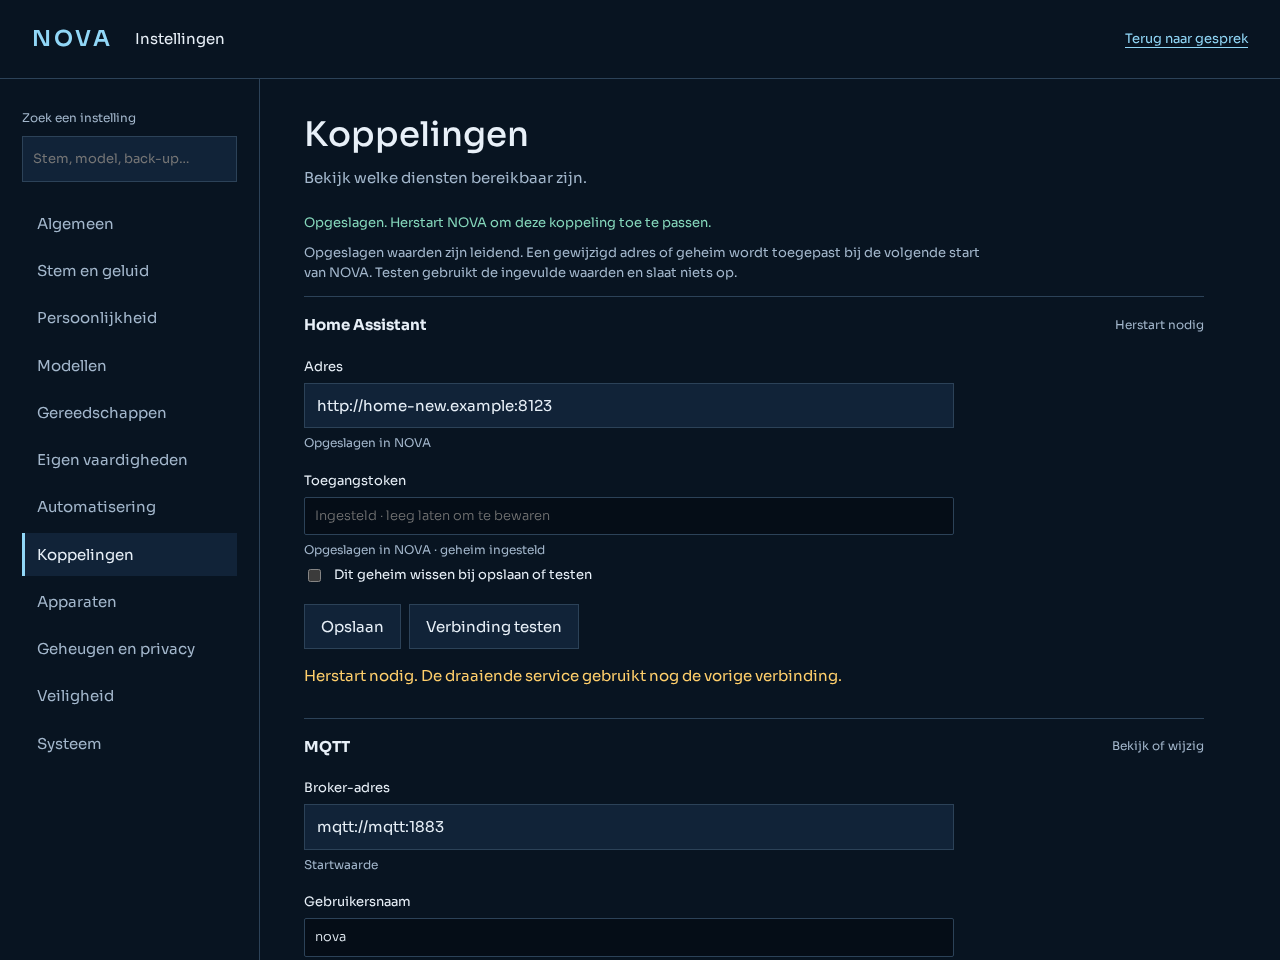
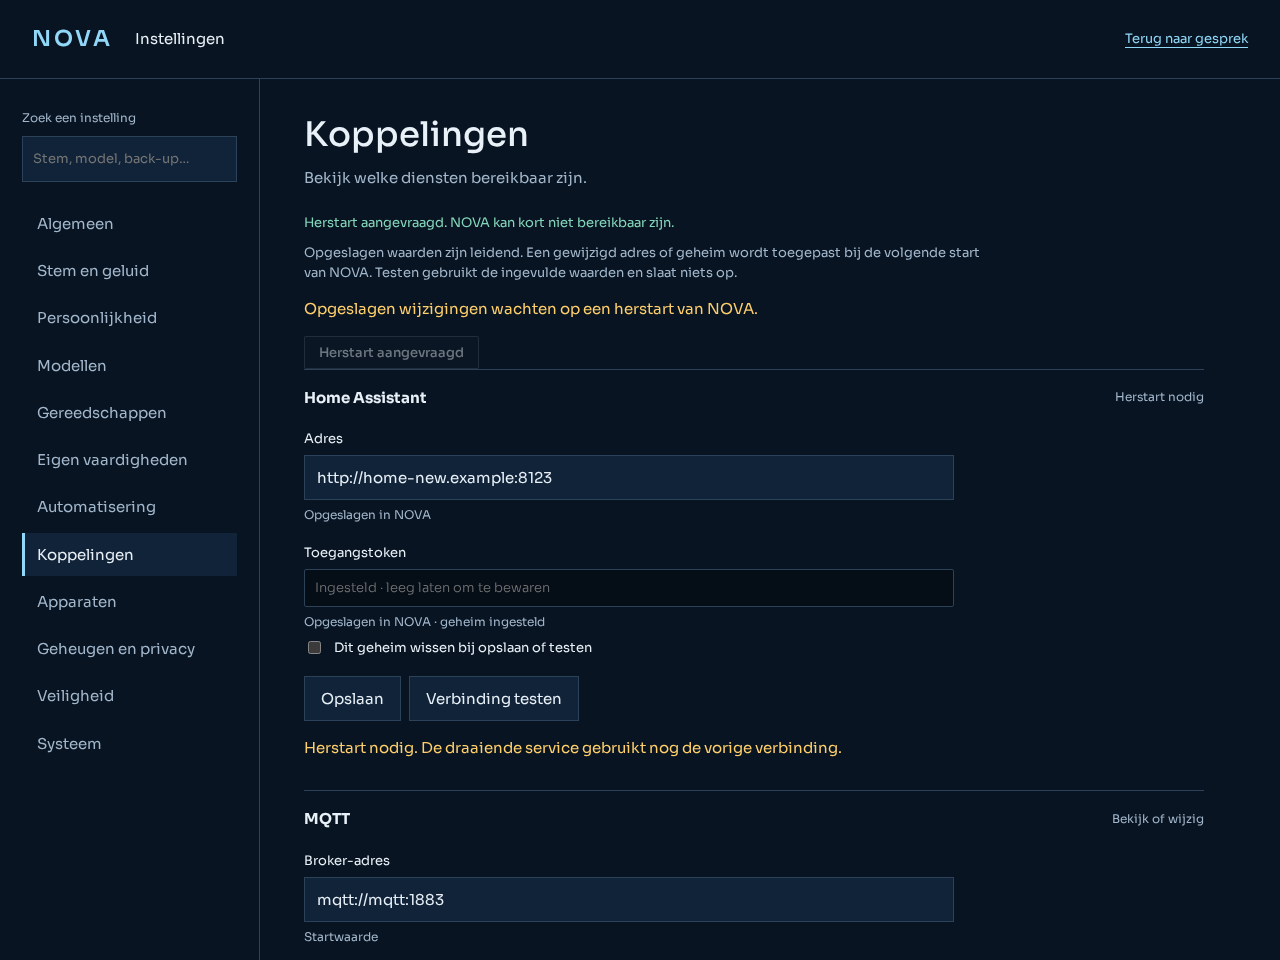
feat(settings): add controlled service restart

diff --git a/apps/web/src/components/settings/ConnectionsSection.svelte b/apps/web/src/components/settings/ConnectionsSection.svelte
@@ -3,6 +3,7 @@
   import type {
     MqttOverview,
     QdrantOverview,
+    ServiceRestartStatus,
     ServiceConnection,
     ServiceConnectionTest,
   } from "@nova/contracts";
@@ -12,8 +13,11 @@
     getQdrantOverview,
     saveServiceConnection,
     testServiceConnection,
+    getServiceRestartStatus,
+    requestServiceRestart,
   } from "#lib/api/settings.ts";
   import { fail, say } from "./state.svelte.ts";
+  import Button from "#components/ui/Button.svelte";
   let { ids }: { ids?: string[] } = $props();
   let services = $state<ServiceConnection[]>([]);
   let drafts = $state<Record<string, Record<string, string | boolean>>>({});
@@ -25,6 +29,7 @@
   let mqttError = $state("");
   let qdrantOverview = $state<QdrantOverview | null>(null);
   let qdrantError = $state("");
+  let restartStatus = $state<ServiceRestartStatus | null>(null);
   const shown = $derived(
     services.filter((item) => !ids || ids.includes(item.id)),
   );
@@ -39,7 +44,12 @@
   }
   async function load() {
     try {
-      services = (await getServiceConnections()).services;
+      const [connections, restart] = await Promise.all([
+        getServiceConnections(),
+        getServiceRestartStatus(),
+      ]);
+      services = connections.services;
+      restartStatus = restart;
       services.forEach(reset);
       error = "";
     } catch (e) {
@@ -47,6 +57,30 @@
         e instanceof Error
           ? e.message
           : "De koppelingen zijn niet beschikbaar.";
+    }
+  }
+  async function restart() {
+    if (
+      !window.confirm(
+        "NOVA is kort niet bereikbaar. Herstart nu om de opgeslagen koppelingen toe te passen?",
+      )
+    )
+      return;
+    busy = "restart";
+    try {
+      const result = await requestServiceRestart();
+      if (!result.ok)
+        throw new Error(result.error ?? "Herstart kon niet worden ingepland.");
+      restartStatus = {
+        available: true,
+        pendingChanges: true,
+        restartPending: true,
+      };
+      say("Herstart aangevraagd. NOVA kan kort niet bereikbaar zijn.", "ok");
+    } catch (e) {
+      fail(e);
+    } finally {
+      busy = null;
     }
   }
   onMount(() => {
@@ -85,6 +119,7 @@
           cleared(service.id),
         );
         services = result.services;
+        restartStatus = await getServiceRestartStatus();
         const saved = services.find((item) => item.id === service.id)!;
         reset(saved);
         delete tests[service.id];
@@ -136,6 +171,18 @@
   </p>
   {#if error}<p role="status">{error}</p>
     <button type="button" onclick={load}>Opnieuw proberen</button>{/if}
+  {#if restartStatus?.available && shown.some((service) => service.restartRequired)}
+    <div class="connection-pending" role="status">
+      <p>Opgeslagen wijzigingen wachten op een herstart van NOVA.</p>
+      <Button
+        disabled={busy !== null || restartStatus.restartPending}
+        onclick={restart}
+        >{restartStatus.restartPending
+          ? "Herstart aangevraagd"
+          : "Herstart NOVA"}</Button
+      >
+    </div>
+  {/if}
   {#each shown as service (service.id)}
     <details class="connection-editor">
       <summary

diff --git a/apps/api/src/settings/services/service-restart.service.ts b/apps/api/src/settings/services/service-restart.service.ts
@@ -1,0 +1,72 @@
+import { Injectable } from "@nestjs/common";
+import type {
+  ServiceRestartResult,
+  ServiceRestartStatus,
+} from "@nova/contracts";
+import { AuditService } from "../../core/audit/audit.service.js";
+import { NovaConfig } from "../../core/config/nova-config.js";
+import { ServiceConnectionsStore } from "./service-connections.store.js";
+
+/** Graceful process restart, enabled only when a supervisor will bring NOVA back. */
+@Injectable()
+export class ServiceRestart {
+  private scheduled = false;
+  /** Replaceable in tests. The production deploy uses Docker's unless-stopped policy. */
+  scheduleRestart: () => void = () => {
+    setTimeout(() => process.kill(process.pid, "SIGTERM"), 500);
+  };
+
+  constructor(
+    private readonly config: NovaConfig,
+    private readonly audit: AuditService,
+    private readonly connections: ServiceConnectionsStore,
+  ) {}
+
+  status(): ServiceRestartStatus {
+    const pendingChanges = this.connections
+      .list()
+      .some((service) => service.restartRequired);
+    return {
+      available: this.config.restartEnabled,
+      pendingChanges,
+      restartPending: this.scheduled,
+      ...(!this.config.restartEnabled
+        ? {
+            reason:
+              "Gecontroleerd herstarten is voor deze installatie niet ingeschakeld.",
+          }
+        : !pendingChanges
+          ? {
+              reason: "Er zijn geen wijzigingen die een herstart nodig hebben.",
+            }
+          : {}),
+    };
+  }
+
+  request(): ServiceRestartResult {
+    const status = this.status();
+    if (!status.available || !status.pendingChanges)
+      return { ok: false, error: status.reason };
+    if (this.scheduled)
+      return { ok: false, error: "De herstart is al aangevraagd." };
+    try {
+      this.audit.record({
+        sessionId: "settings",
+        tool: "settings_service_restart",
+        risk: "CONFIRM",
+        confirmation: "admin_ui",
+        arguments: { pendingChanges: true },
+        phase: "before_execute",
+      });
+      this.scheduled = true;
+      this.scheduleRestart();
+      return { ok: true, scheduled: true };
+    } catch {
+      this.scheduled = false;
+      return {
+        ok: false,
+        error: "Herstart kon niet worden ingepland. Probeer het later opnieuw.",
+      };
+    }
+  }
+}

diff --git a/apps/api/test/settings/service-restart.test.ts b/apps/api/test/settings/service-restart.test.ts
@@ -1,0 +1,50 @@
+import { describe, expect, it, vi } from "vitest";
+import type { AuditService } from "../../src/core/audit/audit.service.js";
+import type { NovaConfig } from "../../src/core/config/nova-config.js";
+import { ServiceRestart } from "../../src/settings/services/service-restart.service.js";
+
+function fixture({ enabled = true, pending = true } = {}) {
+  const record = vi.fn();
+  const scheduleRestart = vi.fn();
+  const service = new ServiceRestart(
+    { restartEnabled: enabled } as NovaConfig,
+    { record } as unknown as AuditService,
+    {
+      list: () => [{ restartRequired: pending }],
+    } as never,
+  );
+  service.scheduleRestart = scheduleRestart;
+  return { service, record, scheduleRestart };
+}
+
+describe("controlled service restart", () => {
+  it("is unavailable unless the process supervisor is explicitly enabled", () => {
+    const { service, scheduleRestart } = fixture({ enabled: false });
+    expect(service.status()).toMatchObject({
+      available: false,
+      pendingChanges: true,
+      restartPending: false,
+    });
+    expect(service.request()).toMatchObject({ ok: false });
+    expect(scheduleRestart).not.toHaveBeenCalled();
+  });
+
+  it("requires pending changes and schedules one audited graceful restart", () => {
+    const noChanges = fixture({ pending: false });
+    expect(noChanges.service.request()).toMatchObject({ ok: false });
+    expect(noChanges.scheduleRestart).not.toHaveBeenCalled();
+
+    const f = fixture();
+    expect(f.service.request()).toEqual({ ok: true, scheduled: true });
+    expect(f.service.status().restartPending).toBe(true);
+    expect(f.service.request()).toMatchObject({ ok: false });
+    expect(f.scheduleRestart).toHaveBeenCalledTimes(1);
+    expect(f.record).toHaveBeenCalledWith(
+      expect.objectContaining({
+        tool: "settings_service_restart",
+        phase: "before_execute",
+        arguments: { pendingChanges: true },
+      }),
+    );
+  });
+});

diff --git a/apps/api/src/settings/settings.module.ts b/apps/api/src/settings/settings.module.ts
@@ -21,6 +21,8 @@ import { ModelMetricsController } from "./model-metrics.controller.js";
 import { ServiceConnectionsController } from "./services/service-connections.controller.js";
 import { ServiceConnectionsStore } from "./services/service-connections.store.js";
 import { ServiceConnectionsAdapter } from "./services/service-connections.adapter.js";
+import { ServiceRestartController } from "./services/service-restart.controller.js";
+import { ServiceRestart } from "./services/service-restart.service.js";
 import { SkillAssistantService } from "./ai/skill-assistant.service.js";
 import { PlaybooksService } from "./playbooks.service.js";
 import { PublicConfigService } from "./public-config.service.js";
@@ -47,6 +49,7 @@ import { WidgetsController } from "./widgets/widgets.controller.js";
     ToolUsageController,
     WidgetsController,
     ServiceConnectionsController,
+    ServiceRestartController,
     ModelMetricsController,
     UpdatesController,
     NativeGatewayController,
@@ -68,6 +71,7 @@ import { WidgetsController } from "./widgets/widgets.controller.js";
     UpdatesService,
     ServiceConnectionsStore,
     ServiceConnectionsAdapter,
+    ServiceRestart,
     SkillsSource,
     PlaybooksService,
     PublicConfigService,

diff --git a/apps/api/test/settings/service-connections.test.ts b/apps/api/test/settings/service-connections.test.ts
@@ -74,6 +74,12 @@ describe("service connection management", () => {
         (await pinned.api.get("/api/settings/services/history")).status,
       ).toBe(401);
       expect(
+        (await pinned.api.get("/api/settings/services/restart")).status,
+      ).toBe(401);
+      expect(
+        (await pinned.api.post("/api/settings/services/restart")).status,
+      ).toBe(401);
+      expect(
         (await pinned.api.get("/api/settings/services/mqtt/overview")).status,
       ).toBe(401);
       expect(
@@ -87,6 +93,20 @@ describe("service connection management", () => {
             .set("x-nova-pin", "fixture-pin")
         ).status,
       ).toBe(200);
+      expect(
+        (
+          await pinned.api
+            .get("/api/settings/services/restart")
+            .set("x-nova-pin", "fixture-pin")
+        ).body,
+      ).toMatchObject({ available: false, pendingChanges: false });
+      expect(
+        (
+          await pinned.api
+            .post("/api/settings/services/restart")
+            .set("x-nova-pin", "fixture-pin")
+        ).status,
+      ).toBe(403);
       const mqttOverview = await pinned.api
         .get("/api/settings/services/mqtt/overview")
         .set("x-nova-pin", "fixture-pin");

diff --git a/apps/web/src/lib/api/settings.ts b/apps/web/src/lib/api/settings.ts
@@ -28,6 +28,8 @@ import type {
   ServiceConnectionRevision,
   ServiceConnectionTest,
   ServiceConnectionWrite,
+  ServiceRestartStatus,
+  ServiceRestartResult,
   HelperPreferences,
   Skill,
   SkillDraftResult,
@@ -230,6 +232,10 @@ export const persistHelperPreferences = (preferences: HelperPreferences) =>
 /* ---------- service connections (credentials never returned) ---------- */
 export const getServiceConnections = () =>
   read<{ services: ServiceConnection[] }>("/services");
+export const getServiceRestartStatus = () =>
+  read<ServiceRestartStatus>("/services/restart");
+export const requestServiceRestart = () =>
+  write<ServiceRestartResult>("POST", "/services/restart", {});
 export const getMqttOverview = () =>
   read<MqttOverview>("/services/mqtt/overview");
 export const getQdrantOverview = () =>

diff --git a/apps/api/src/settings/services/service-restart.controller.ts b/apps/api/src/settings/services/service-restart.controller.ts
@@ -1,0 +1,20 @@
+import { Controller, Get, HttpCode, Post, UseGuards } from "@nestjs/common";
+import { SettingsGuard } from "../settings.guard.js";
+import { ServiceRestart } from "./service-restart.service.js";
+
+@Controller("settings/services/restart")
+@UseGuards(SettingsGuard)
+export class ServiceRestartController {
+  constructor(private readonly restart: ServiceRestart) {}
+
+  @Get()
+  status() {
+    return this.restart.status();
+  }
+
+  @Post()
+  @HttpCode(200)
+  request() {
+    return this.restart.request();
+  }
+}

diff --git a/packages/contracts/src/settings.ts b/packages/contracts/src/settings.ts
@@ -505,6 +505,17 @@ export interface ServiceConnectionWrite {
   services: ServiceConnection[];
   auditWarning?: string;
 }
+export interface ServiceRestartStatus {
+  available: boolean;
+  pendingChanges: boolean;
+  restartPending: boolean;
+  reason?: string;
+}
+export interface ServiceRestartResult {
+  ok: boolean;
+  error?: string;
+  scheduled?: boolean;
+}
 
 /** Private projections of the bounded audit tail, with no arguments or session identifiers. */
 export interface ToolUsageReport {

diff --git a/apps/api/src/core/config/nova-config.ts b/apps/api/src/core/config/nova-config.ts
@@ -50,6 +50,8 @@ export class NovaConfig {
   );
   readonly publicUrl = text("NOVA_PUBLIC_URL");
   readonly adminPin = text("NOVA_ADMIN_PIN");
+  /** Permit a graceful process restart only when an external supervisor restarts this process. */
+  readonly restartEnabled = flag("NOVA_RESTART_ENABLED", false);
   readonly defaultLanguage = text("JARVIS_DEFAULT_LANGUAGE", "nl-NL");
   readonly timezone = text("TZ", "Europe/Amsterdam");
 

diff --git a/docs/development-state.md b/docs/development-state.md
@@ -117,3 +117,7 @@ J5.1 now includes a PIN-guarded explicit version timeline backed by the existing
 J3.1 now also includes explicit PIN-protected combo-route inventory: at most 200 routes and 100 model references each, projecting only ID/name/display name/active/strategy/model labels. Prompt, config, and credential fields are omitted. Together with provider account/catalog metadata this remains read-only; billing is unverified. Thirty-six focused tests passed; full Node24 format/lint/typecheck/build and 1,023 tests in 50 files passed. Production browser checks passed desktop/2x/mobile; escaped labels and combo details reviewed. No route or gateway setting was changed.
 
 Next J3.1: add only management actions with fresh confirmation, persistent inference barriers, and independent storage verification; account creation is unsafe on the pinned API because it probes and can asynchronously activate. Review safer route/model visibility updates first. Then continue J2.3 restart, J2.4 history and J2.5 complete backups. No phase J push/release approval.
+
+J2.3 controlled restart is implemented for the official Docker Compose deployment only. `NOVA_RESTART_ENABLED` defaults off and is enabled in `deploy/docker-compose.yml`, where `restart: unless-stopped` supervises the process. The guarded endpoint requires pending restart changes, writes an audit record and sends SIGTERM after replying; UI asks first and disables duplicate requests. Other deployment types do not show the restart button. Node24 format/lint/typecheck/build and all 1,025 tests passed; production browser flow passed desktop/2x/mobile and mobile screenshot reviewed. No real container restart was triggered.
+
+Next: J2.4 broaden change history and safe per-change rollback beyond service connections. Preserve secret redaction and conflict checks. Then complete J2.5 coverage for remaining owners. Continue J; no push/release approval.

diff --git a/tasks-09-10-2026.md b/tasks-09-10-2026.md
@@ -568,7 +568,7 @@ complete herbouw en herontwerp van de instellingen, geen opknapbeurt. J4 hangt a
       liefst versleuteld) en in de UI alleen gemaskeerd getoond, met "vervangen".
       Gereed: `services.json` (0600) overschrijft startwaarden bij boot; geheimen blijven server-side.
 - [ ] J2.3 Wijzigingen zonder herstart waar het kan; anders een duidelijke melding "herstart nodig" met een knop.
-      Deels J2.3: herstartmelding werkt; gecontroleerde herstartknop volgt bij containerbeheer.
+      Deels J2.3: officiële Docker Compose-deployment kan na PIN/admin-bevestiging een gecontroleerde, geaudite SIGTERM aanvragen; knop alleen bij ondersteunde installatie en wachtende wijzigingen. Andere deploymentvormen tonen alleen de herstartmelding.
 - [ ] J2.4 Wijzigingsgeschiedenis (wat, wanneer, waarvan naar wat; zonder geheimen) met terugdraaien per wijziging.
       Deels J2.4: koppelingen hebben geschiedenis met selectief herstel en conflictcontrole; overige instellingen volgen.
 - [ ] J2.5 Export en import van alle instellingen, persona, skills, flows en lijsten in één bestand, met een controle vooraf.
